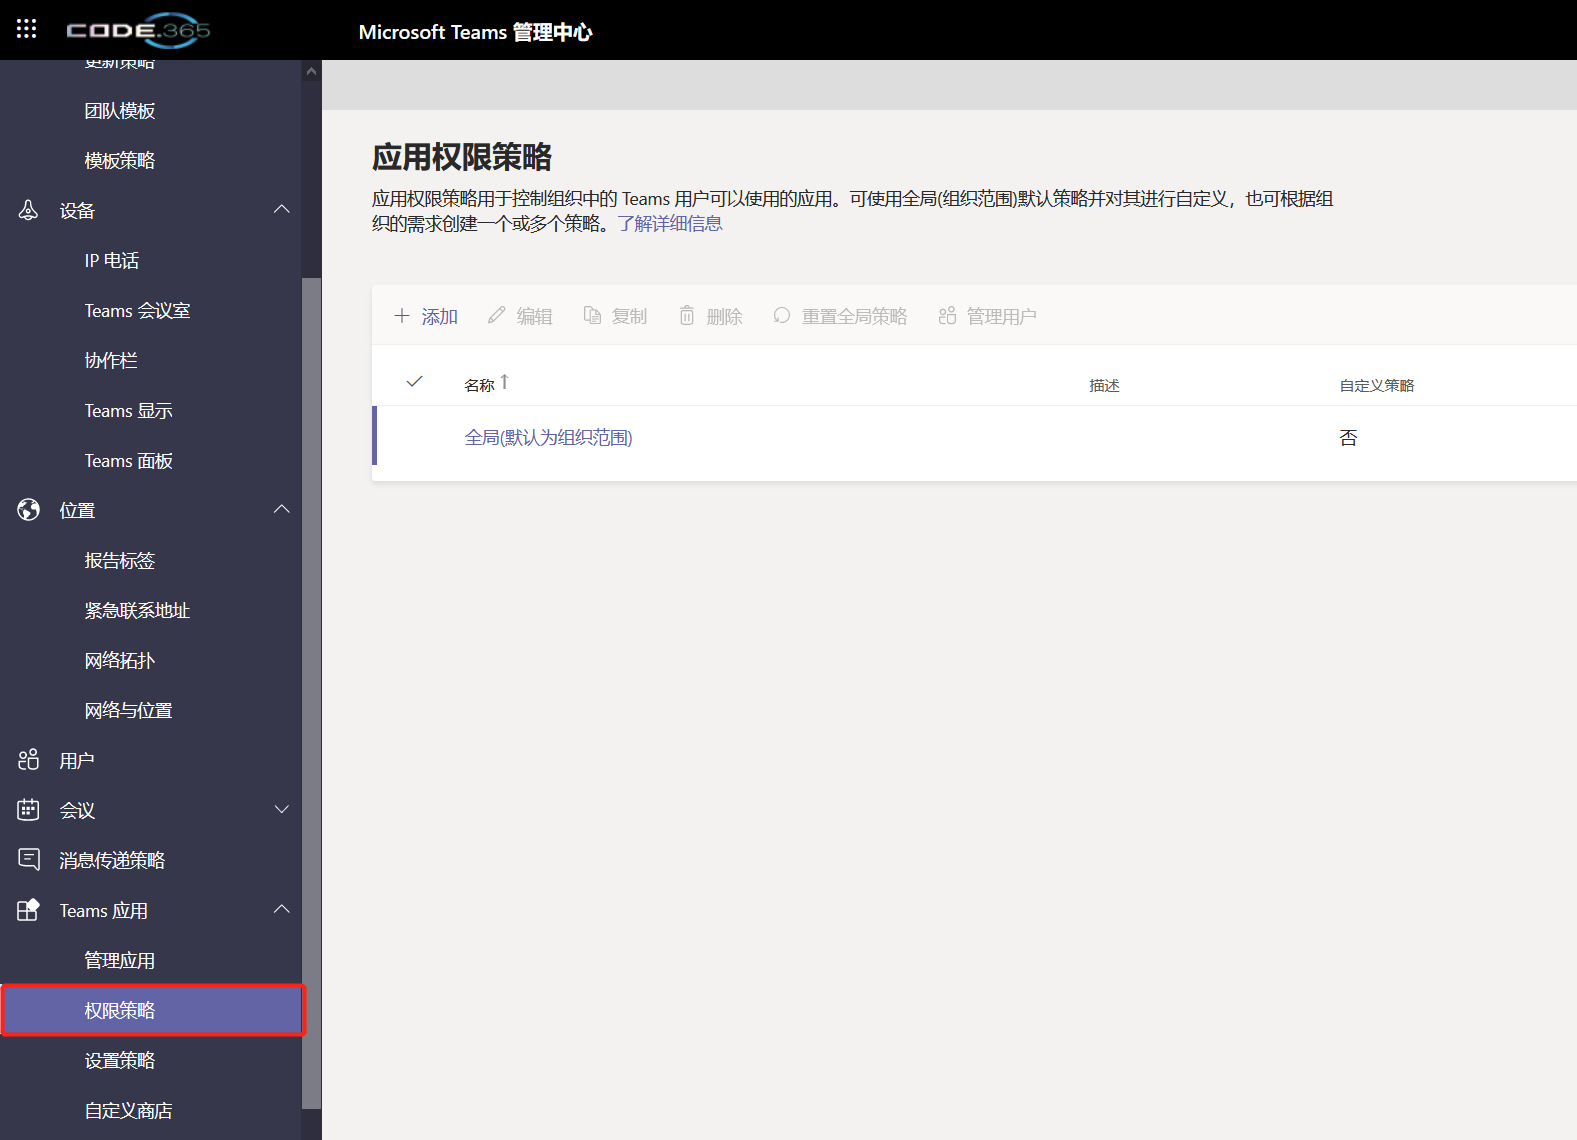
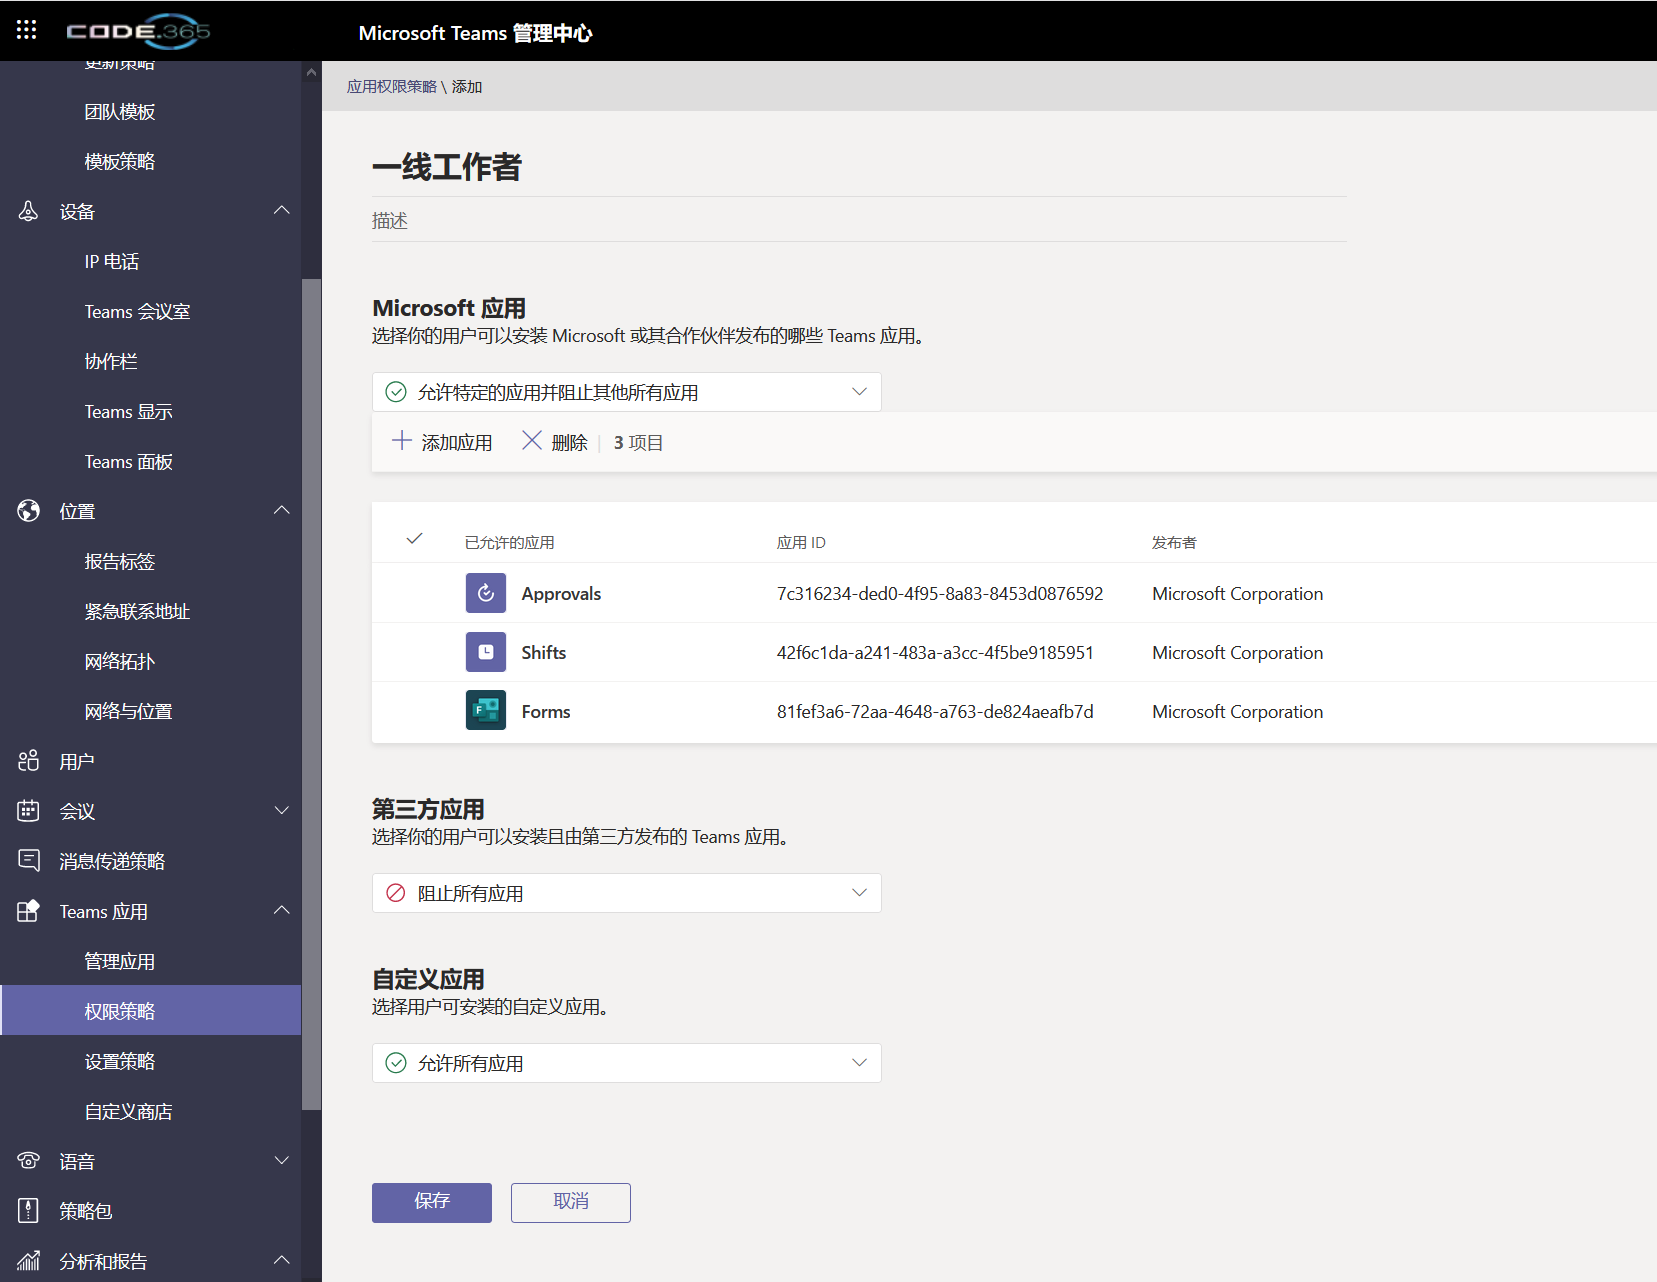
GitBook: [docs] 45 pages and 6 assets modified

diff --git a/it-prespective-of-the-platform/app-permission-policy.md b/it-prespective-of-the-platform/app-permission-policy.md
@@ -6,7 +6,9 @@ description: 决定在组织中允许使用的应用
 
 作为管理员，你可以决定在你的组织中，如何使用基于Teams平台的应用，包括哪些应用能用、哪些应用不能用等。你可以登录到管理中心后，进入“Teams 应用”=》 “ 权限策略” 这个页面进行设置。
 
-![](../.gitbook/assets/tu-pian-%20%28194%29.png)
+![](../.gitbook/assets/tu-pian-%20%28197%29.png)
+
+## 全局策略和策略规则
 
 默认情况下，这里会有一个“全局”的策略，它是对所有用户有效的。
 
@@ -14,7 +16,7 @@ Teams 将应用分为三大类，分别如下：
 
 1. 由微软发布的应用
 2. 由第三方合作伙伴发布的应用
-3. 由企业自己发布的应用
+3. 由企业自己发布的自定义应用
 
 而针对这三类应用，分别有四种可以进行设置的规则
 
@@ -23,7 +25,35 @@ Teams 将应用分为三大类，分别如下：
 3. 阻止特定应用，允许其他应用 （相当于设置黑名单）
 4. 阻止所有应用
 
+![](../.gitbook/assets/tu-pian-%20%28196%29.png)
+
+## 创建自定义策略
+
+你可以为特定的用户（或用户组）创建自定义策略，以便进行特殊的控制。例如为了让一线工作者在使用Teams时尽量简化，阿波创建了一个“一线工作者” 的权限策略，仅允许安装微软自己发布的 Approvals \(用于内部审批），Shift（用于排班管理），Forms（用来填写调查表），以及公司自己发布的“自定义应用”，但不允许任何第三方应用。
+
+![](../.gitbook/assets/tu-pian-%20%28194%29.png)
+
+## 将策略分配给用户或组
+
+创建好自定义权限策略后，可以通过下面的方式将其分配给特定用户。
+
 ![](../.gitbook/assets/tu-pian-%20%28193%29.png)
+
+一旦生效后，该用户在Teams 客户端能搜索或看到的应用就根据规则设置产生变化。下图的1，2，4 分别是对应Forms，Approvals，和Shifts，而另外一个 “平台手册” 是该公司自定义的应用。
+
+{% hint style="info" %}
+通常生效需要一点时间，官方文档说最慢24小时内，但如果组织比较小，一般也很快就生效了
+{% endhint %}
+
+![](../.gitbook/assets/tu-pian-%20%28195%29.png)
+
+注意，定义策略时搜索的应用名称是应用发布到商店时的默认语言名称，通常是英文。而用户在自己的客户端点击 “应用” 按钮看到的应用商店，则会以当前客户端所选择的语言，显示应用的名称（如果该应用有定义多语言的信息的话），所以上图中，大家看到的“审批”和“排班” 是中文的名称。
+
+
+
+## 策略的优先级
+
+
 
 
 

diff --git a/it-prespective-of-the-platform/usage-analytics.md b/it-prespective-of-the-platform/usage-analytics.md
@@ -96,7 +96,7 @@ Invoke-GraphRequest -Uri "v1.0/reports/getTeamsUserActivityUserDetail(period='D3
 
 默认导出的这个文件是CSV格式的，请参考下面的结果。
 
-![](../.gitbook/assets/tu-pian-%20%28195%29.png)
+![](../.gitbook/assets/tu-pian-%20%28198%29.png)
 
 {% hint style="info" %}
 period可以有四个选项，分别是 D7,D30,D90,D180， 代表7天，30天，90天，180天的数据聚合, 请注意，目前在管理中心只能下载最多90天的数据聚合，但通过接口或PowerShell可以最多获取180天。
